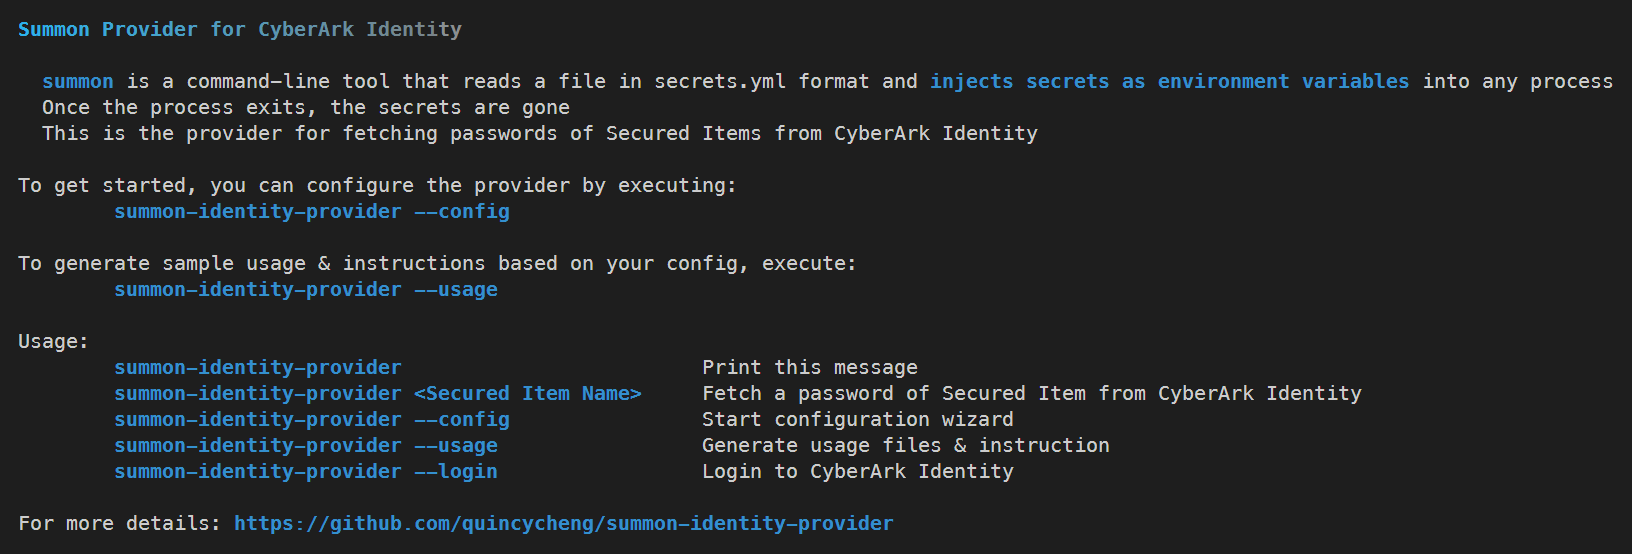
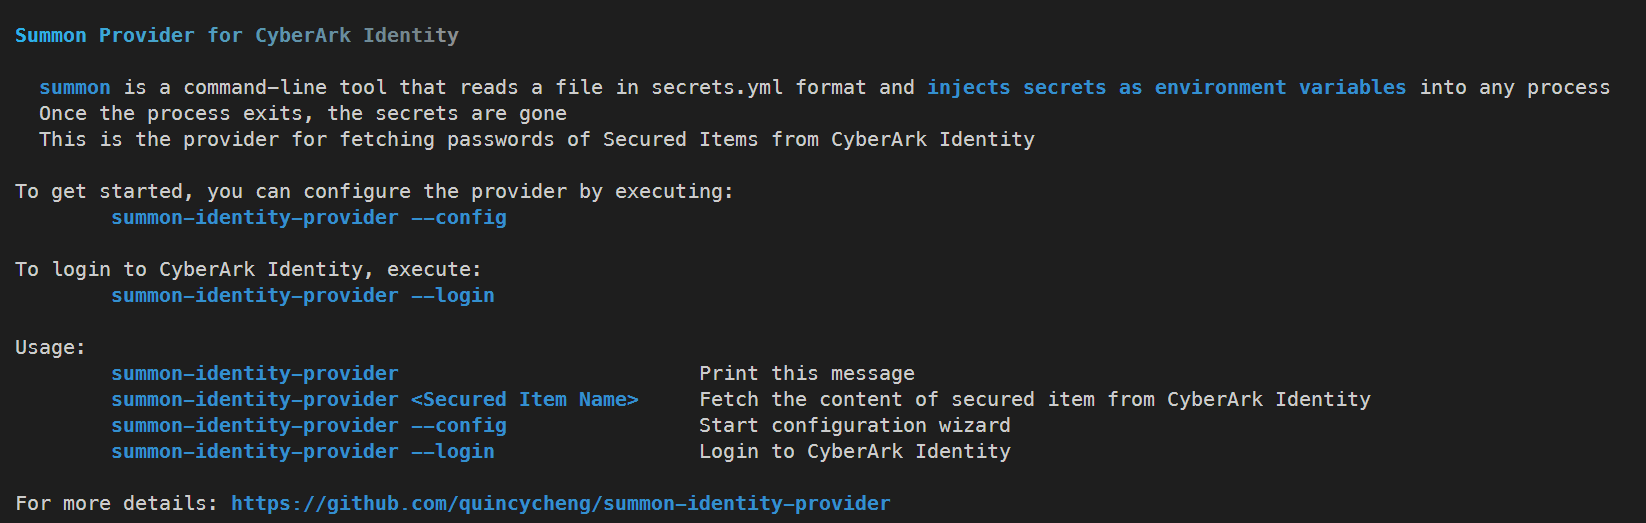
Updated default messages

diff --git a/cmd/default.go b/cmd/default.go
@@ -21,13 +21,13 @@ func PrintIntroMessage() {
 	fmt.Println("To get started, you can configure the provider by executing:")
 	fmt.Println(highlightStyle.Render("\tsummon-identity-provider --config"))
 	fmt.Println("")
-	fmt.Println("To generate sample usage & instructions based on your config, execute:")
-	fmt.Println(highlightStyle.Render("\tsummon-identity-provider --usage"))
+	fmt.Println("To login to CyberArk Identity, execute:")
+	fmt.Println(highlightStyle.Render("\tsummon-identity-provider --login"))
 	fmt.Println("")
 	fmt.Println("Usage:")
 
 	fmt.Printf("\t%s\t\t\t Print this message\n", highlightStyle.Render("summon-identity-provider"))
-	fmt.Printf("\t%s\t Fetch a password of Secured Item from CyberArk Identity\n", highlightStyle.Render("summon-identity-provider <Secured Item Name>"))
+	fmt.Printf("\t%s\t Fetch the content of secured item from CyberArk Identity\n", highlightStyle.Render("summon-identity-provider <Secured Item Name>"))
 	fmt.Printf("\t%s\t\t Start configuration wizard\n", highlightStyle.Render("summon-identity-provider --config"))
 	fmt.Printf("\t%s\t\t Login to CyberArk Identity\n", highlightStyle.Render("summon-identity-provider --login"))
 
